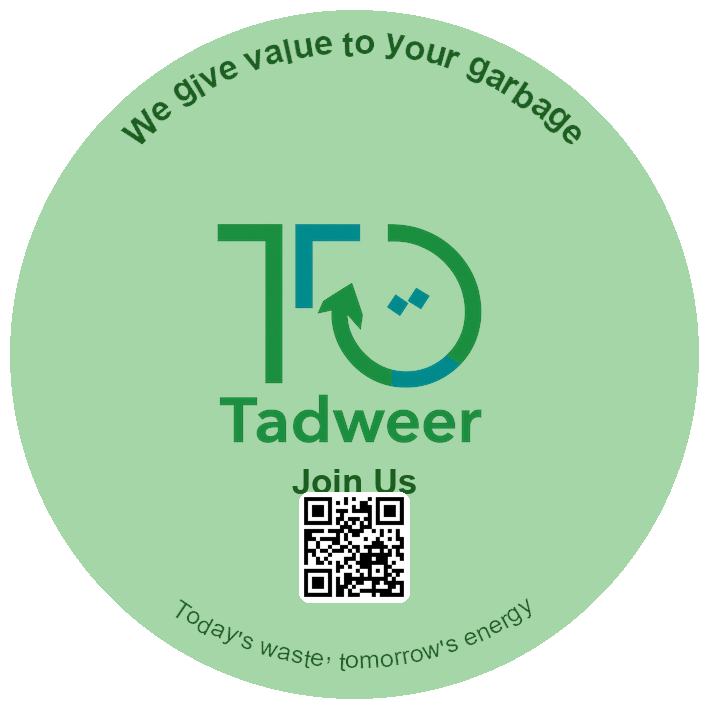
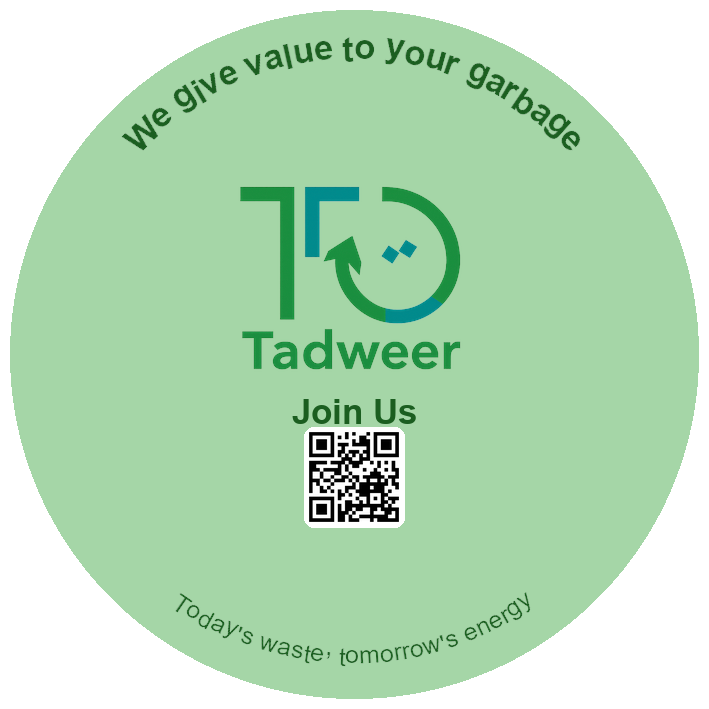
Improve sticker layout: Center content vertically, adjust spacing

Changed region(s): [[0.2793, 0.2482, 0.6827, 0.8688], [0.1551, 0.031, 0.8378, 0.2172], [0.2482, 0.8378, 0.7447, 0.9619]]

diff --git a/tools/generate_sticker_ar.py b/tools/generate_sticker_ar.py
@@ -73,7 +73,7 @@ except:
 
 # 1. Logo (Aspect Ratio Preserved)
 logo = Image.open(logo_path).convert('RGBA')
-max_logo_size = 300 # Max dimension
+max_logo_size = 250 # Reduced size for better spacing
 w, h = logo.size
 aspect_ratio = w / h
 
@@ -88,13 +88,15 @@ logo = logo.resize((new_w, new_h), Image.LANCZOS)
 logo_w, logo_h = logo.size
 
 # 2. QR Code
-qr_size = 100 # Smaller QR
+qr_size = 90 # Slightly smaller
 qr = Image.open(qr_path).convert('RGBA')
 qr = qr.resize((qr_size, qr_size), Image.LANCZOS)
+qr_bg_padding = 5
+qr_bg_size = qr_size + (qr_bg_padding * 2)
 
 # Draw Curved Text
 # Radius for text: slightly less than circle radius
-text_radius = circle_radius - 35
+text_radius = circle_radius - 40 # Move text slightly inwards
 
 # Top: Slogan
 draw_text_on_arc(img, SLOGAN, font_slogan, center, text_radius, 270, TEXT_COLOR, is_bottom=False)
@@ -102,26 +104,32 @@ draw_text_on_arc(img, SLOGAN, font_slogan, center, text_radius, 270, TEXT_COLOR,
 # Bottom: Tagline
 draw_text_on_arc(img, TAGLINE, font_tagline, center, text_radius, 90, TEXT_COLOR, is_bottom=True)
 
-# Center Content
-# Logo in center
-logo_x = (WIDTH - logo_w) // 2
-logo_y = (HEIGHT - logo_h) // 2 - 20 # Shift up slightly to make room for QR/Join Us
-img.paste(logo, (logo_x, logo_y), logo)
-
-# Join Us + QR below logo
-current_y = logo_y + logo_h + 10
-
-# Draw "Join Us"
+# Calculate Vertical Layout for Center Content
+# Stack: Logo -> Gap -> Join Us -> Gap -> QR
 bbox_join = draw.textbbox((0, 0), JOIN_US_TEXT, font=font_join)
-w_join = bbox_join[2] - bbox_join[0]
 h_join = bbox_join[3] - bbox_join[1]
+w_join = bbox_join[2] - bbox_join[0]
+
+gap_logo_join = 15
+gap_join_qr = 10
+
+total_content_height = logo_h + gap_logo_join + h_join + gap_join_qr + qr_bg_size
+
+# Center the stack vertically in the canvas
+start_y = (HEIGHT - total_content_height) // 2
+
+current_y = start_y
+
+# 1. Draw Logo
+logo_x = (WIDTH - logo_w) // 2
+img.paste(logo, (logo_x, current_y), logo)
+current_y += logo_h + gap_logo_join
+
+# 2. Draw "Join Us"
 draw.text(((WIDTH - w_join) // 2, current_y), JOIN_US_TEXT, fill=TEXT_COLOR, font=font_join)
+current_y += h_join + gap_join_qr
 
-current_y += h_join + 5
-
-# Draw QR
-qr_bg_padding = 5
-qr_bg_size = qr_size + (qr_bg_padding * 2)
+# 3. Draw QR
 qr_bg_x = (WIDTH - qr_bg_size) // 2
 qr_bg_y = current_y
 

diff --git a/tools/generate_sticker.py b/tools/generate_sticker.py
@@ -59,7 +59,7 @@ except:
 
 # 1. Logo (Aspect Ratio Preserved)
 logo = Image.open(logo_path).convert('RGBA')
-max_logo_size = 300 # Max dimension
+max_logo_size = 250 # Reduced size for better spacing
 w, h = logo.size
 aspect_ratio = w / h
 
@@ -74,13 +74,15 @@ logo = logo.resize((new_w, new_h), Image.LANCZOS)
 logo_w, logo_h = logo.size
 
 # 2. QR Code
-qr_size = 100 # Smaller QR
+qr_size = 90 # Slightly smaller
 qr = Image.open(qr_path).convert('RGBA')
 qr = qr.resize((qr_size, qr_size), Image.LANCZOS)
+qr_bg_padding = 5
+qr_bg_size = qr_size + (qr_bg_padding * 2)
 
 # Draw Curved Text
 # Radius for text: slightly less than circle radius
-text_radius = circle_radius - 35
+text_radius = circle_radius - 40 # Move text slightly inwards
 
 # Top: Slogan
 draw_text_on_arc(img, SLOGAN, font_slogan, center, text_radius, 270, TEXT_COLOR, is_bottom=False)
@@ -88,26 +90,32 @@ draw_text_on_arc(img, SLOGAN, font_slogan, center, text_radius, 270, TEXT_COLOR,
 # Bottom: Tagline
 draw_text_on_arc(img, TAGLINE, font_tagline, center, text_radius, 90, TEXT_COLOR, is_bottom=True)
 
-# Center Content
-# Logo in center
-logo_x = (WIDTH - logo_w) // 2
-logo_y = (HEIGHT - logo_h) // 2 - 20 # Shift up slightly to make room for QR/Join Us
-img.paste(logo, (logo_x, logo_y), logo)
-
-# Join Us + QR below logo
-current_y = logo_y + logo_h + 10
-
-# Draw "Join Us"
+# Calculate Vertical Layout for Center Content
+# Stack: Logo -> Gap -> Join Us -> Gap -> QR
 bbox_join = draw.textbbox((0, 0), JOIN_US_TEXT, font=font_join)
-w_join = bbox_join[2] - bbox_join[0]
 h_join = bbox_join[3] - bbox_join[1]
+w_join = bbox_join[2] - bbox_join[0]
+
+gap_logo_join = 15
+gap_join_qr = 10
+
+total_content_height = logo_h + gap_logo_join + h_join + gap_join_qr + qr_bg_size
+
+# Center the stack vertically in the canvas
+start_y = (HEIGHT - total_content_height) // 2
+
+current_y = start_y
+
+# 1. Draw Logo
+logo_x = (WIDTH - logo_w) // 2
+img.paste(logo, (logo_x, current_y), logo)
+current_y += logo_h + gap_logo_join
+
+# 2. Draw "Join Us"
 draw.text(((WIDTH - w_join) // 2, current_y), JOIN_US_TEXT, fill=TEXT_COLOR, font=font_join)
+current_y += h_join + gap_join_qr
 
-current_y += h_join + 5
-
-# Draw QR
-qr_bg_padding = 5
-qr_bg_size = qr_size + (qr_bg_padding * 2)
+# 3. Draw QR
 qr_bg_x = (WIDTH - qr_bg_size) // 2
 qr_bg_y = current_y
 
